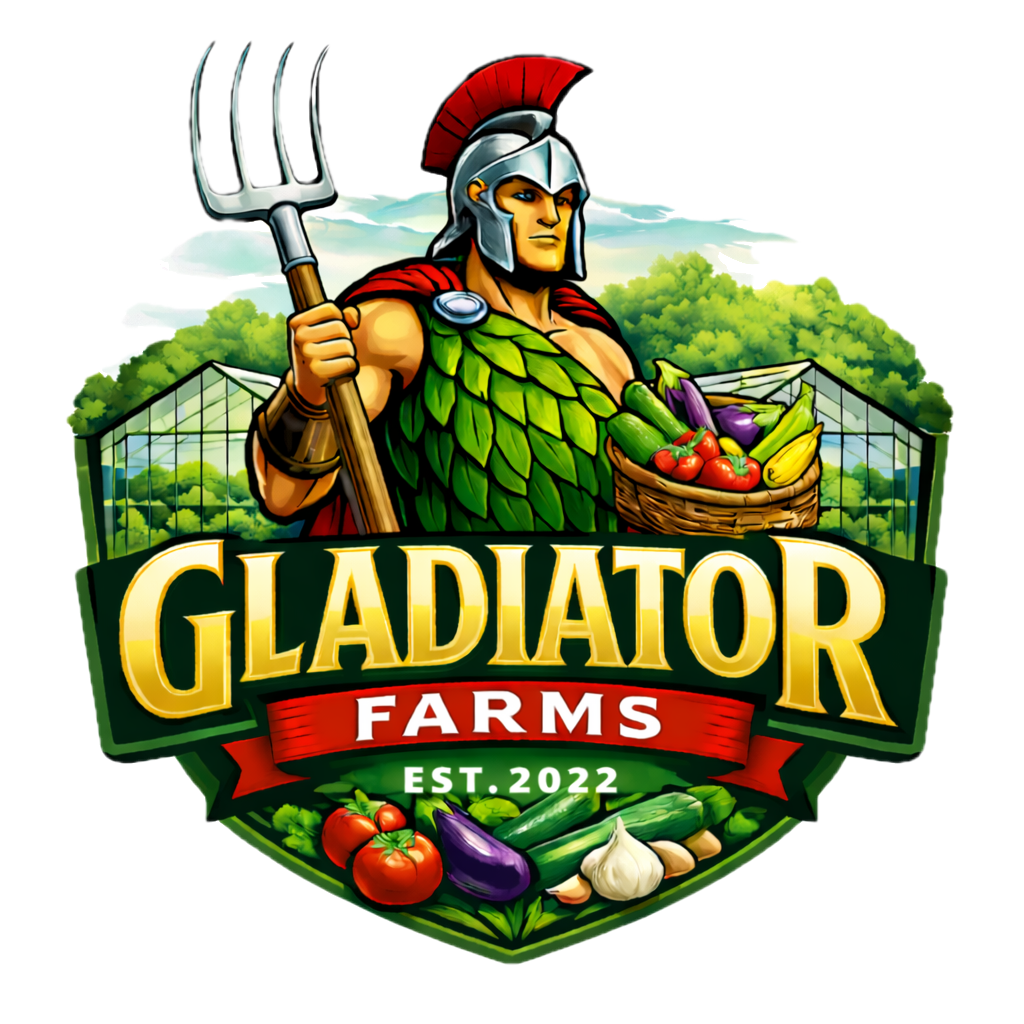
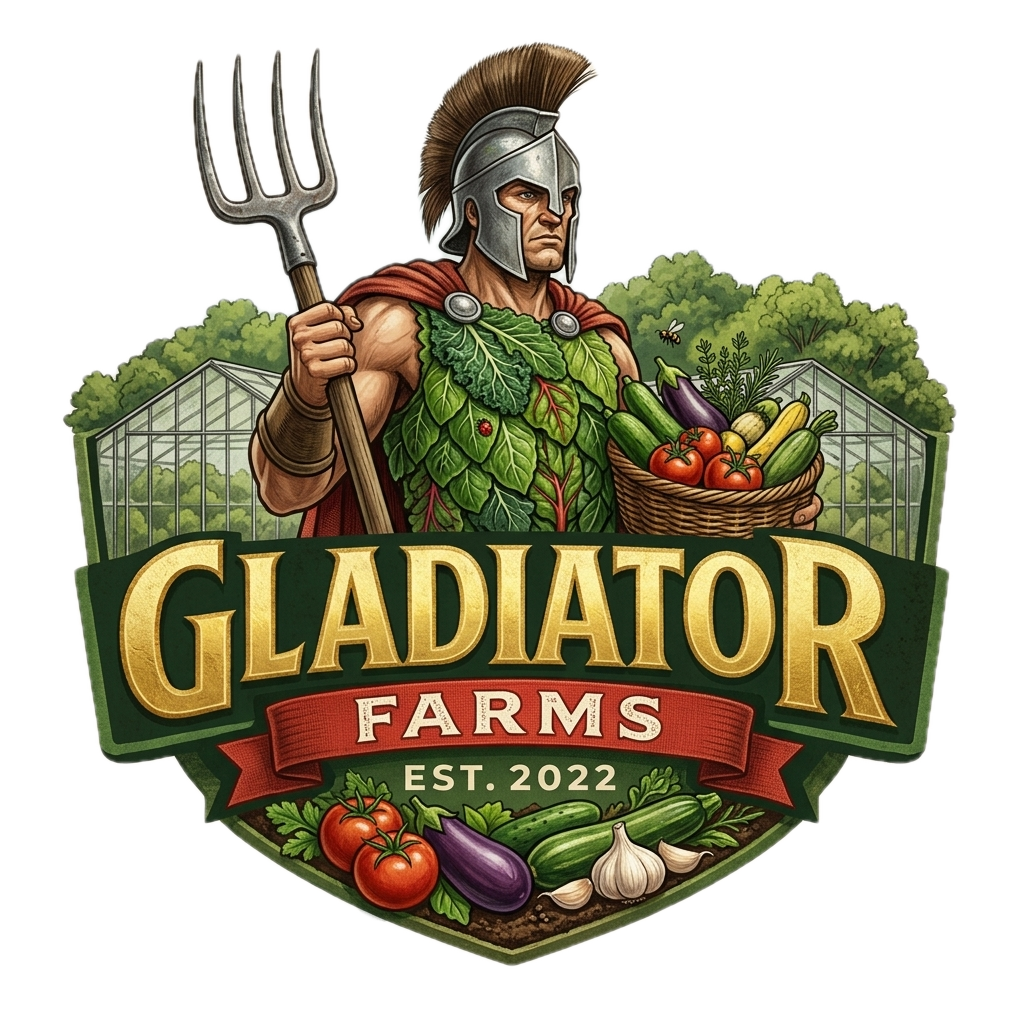
Use updated images

diff --git a/src/components/SiteNav.tsx b/src/components/SiteNav.tsx
@@ -8,7 +8,7 @@ function SiteNav() {
                     <Navbar.Brand href="#home">
                         <img
                             alt=""
-                            src="/gladiator-farms.jpeg"
+                            src="/gladiator-farms-mini.png"
                             width="30"
                             height="30"
                             className="d-inline-block align-top"

diff --git a/src/App.css b/src/App.css
@@ -3,7 +3,7 @@
     height: 100%;
     object-fit: cover;
     object-position: center;
-    filter: grayscale(75%);
+    filter: grayscale(85%);
 }
 
 .home-bg-overlay {
